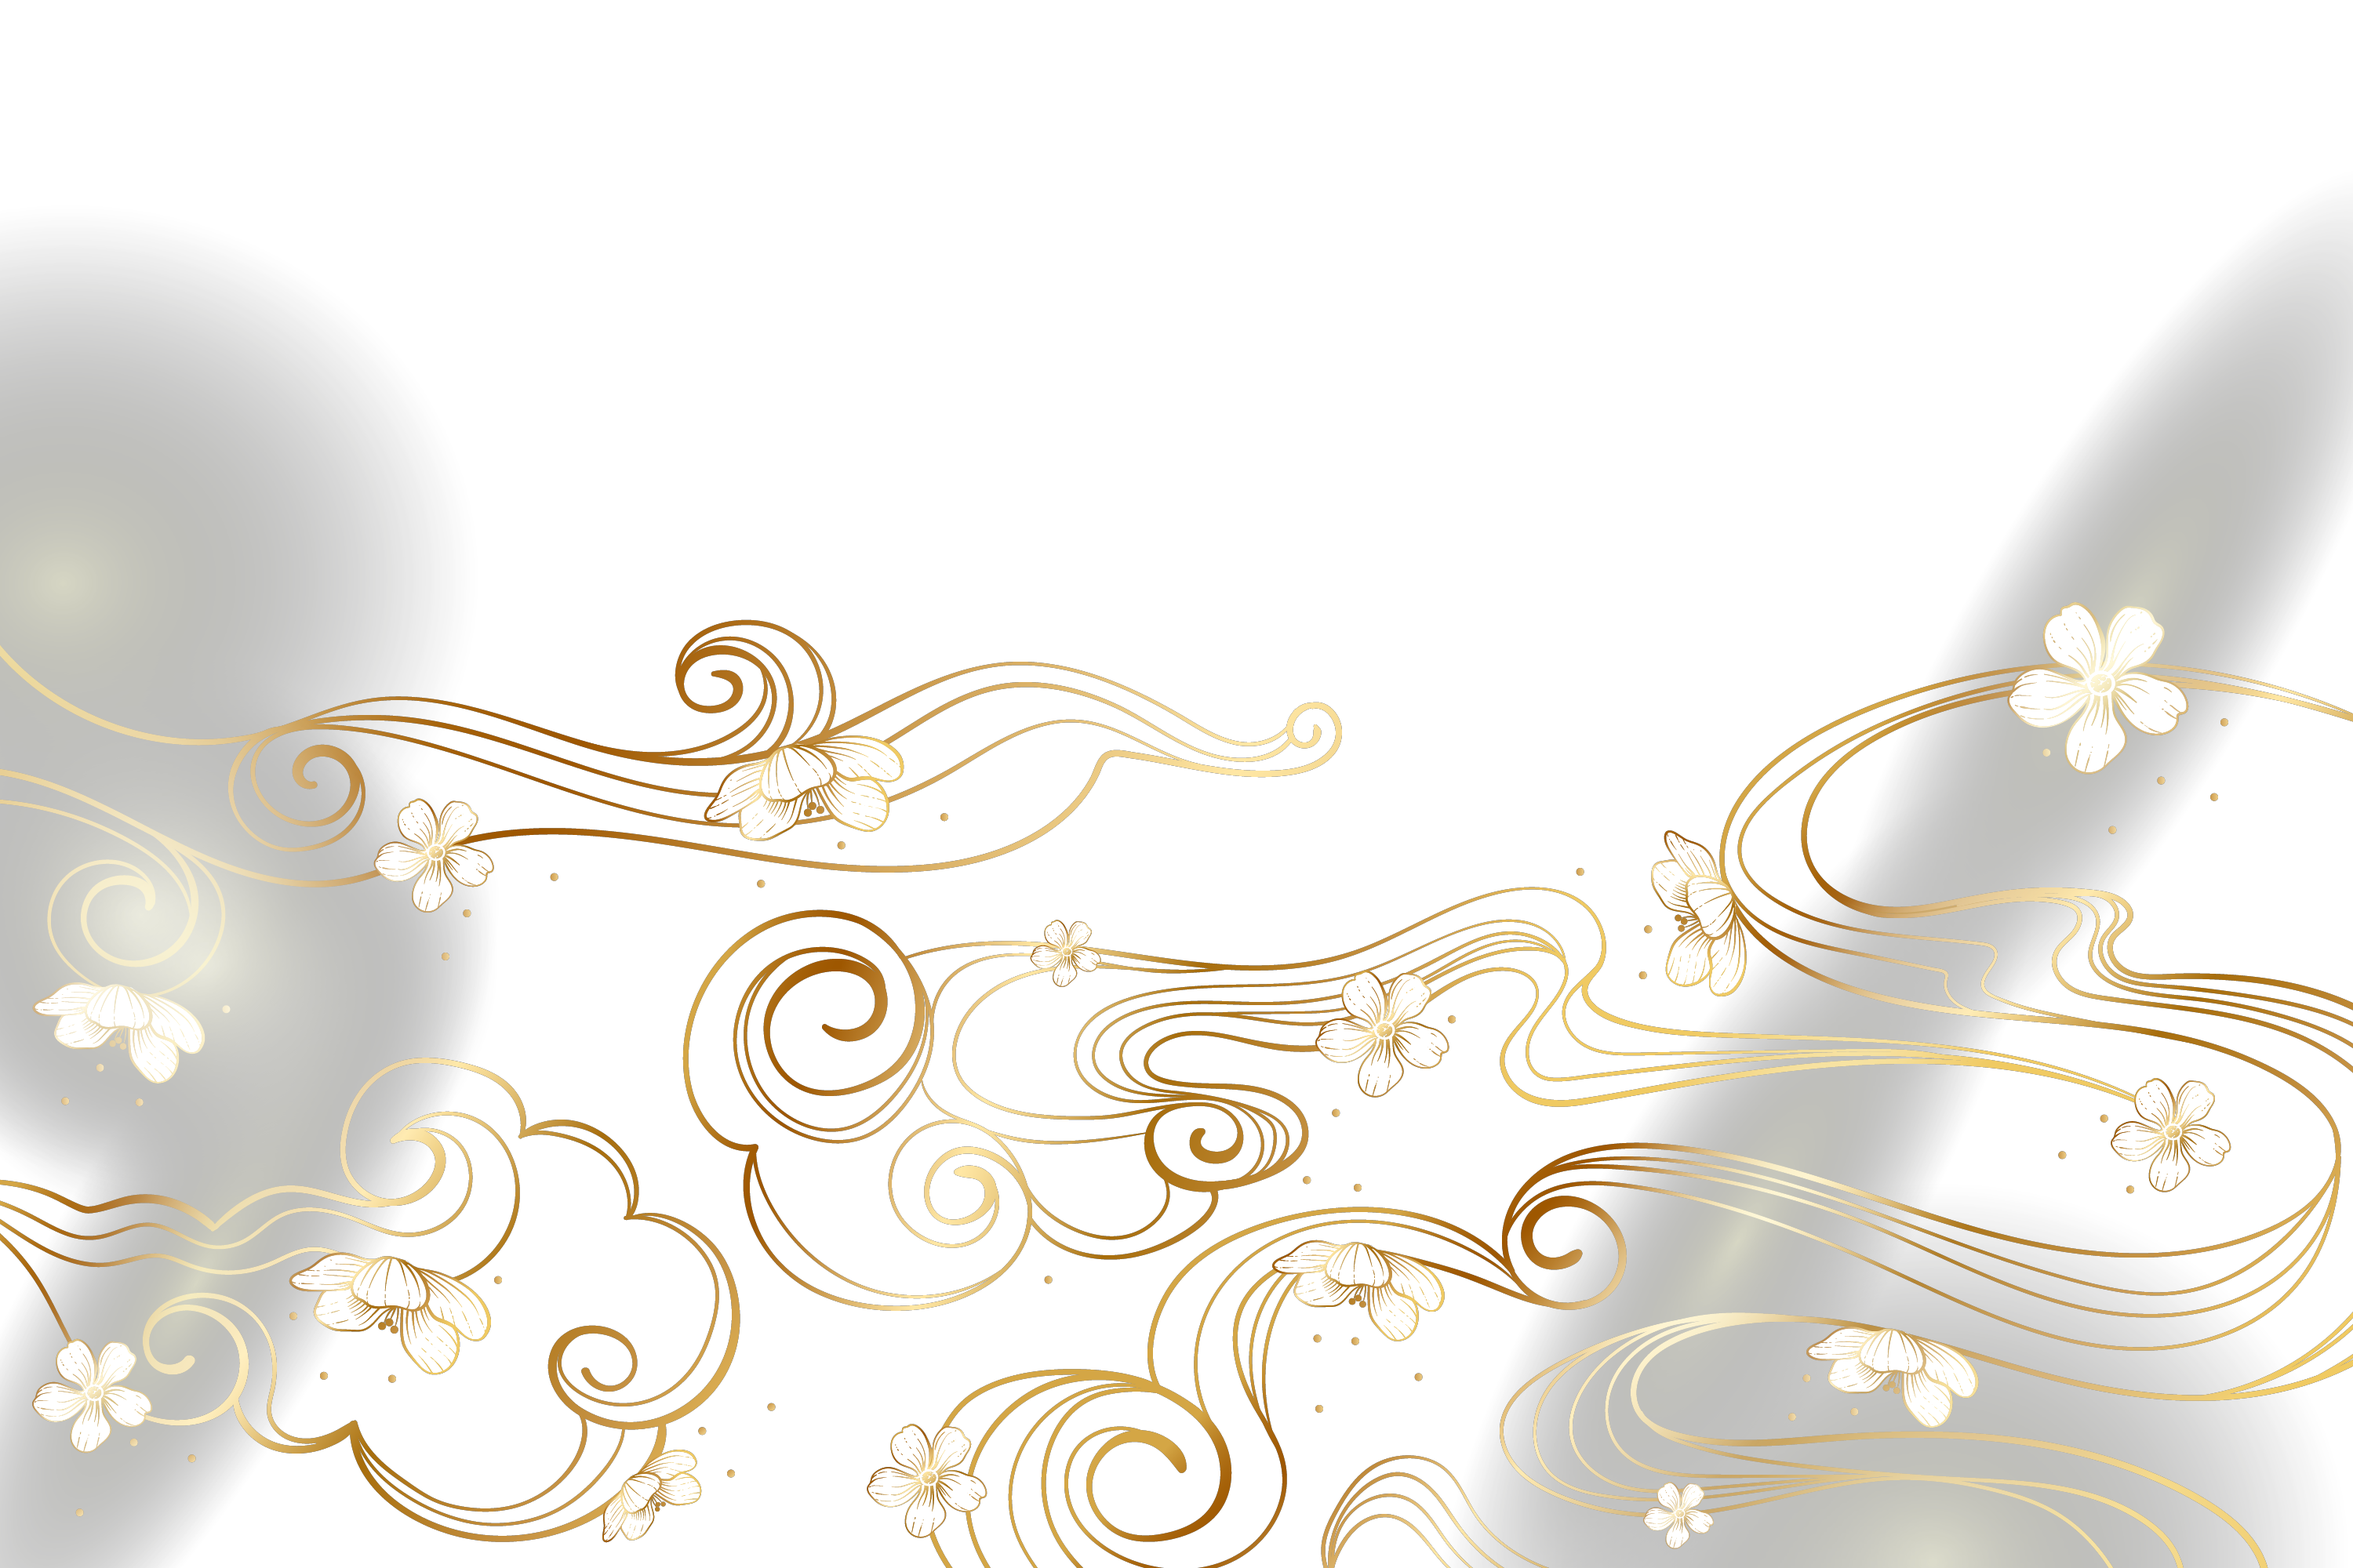
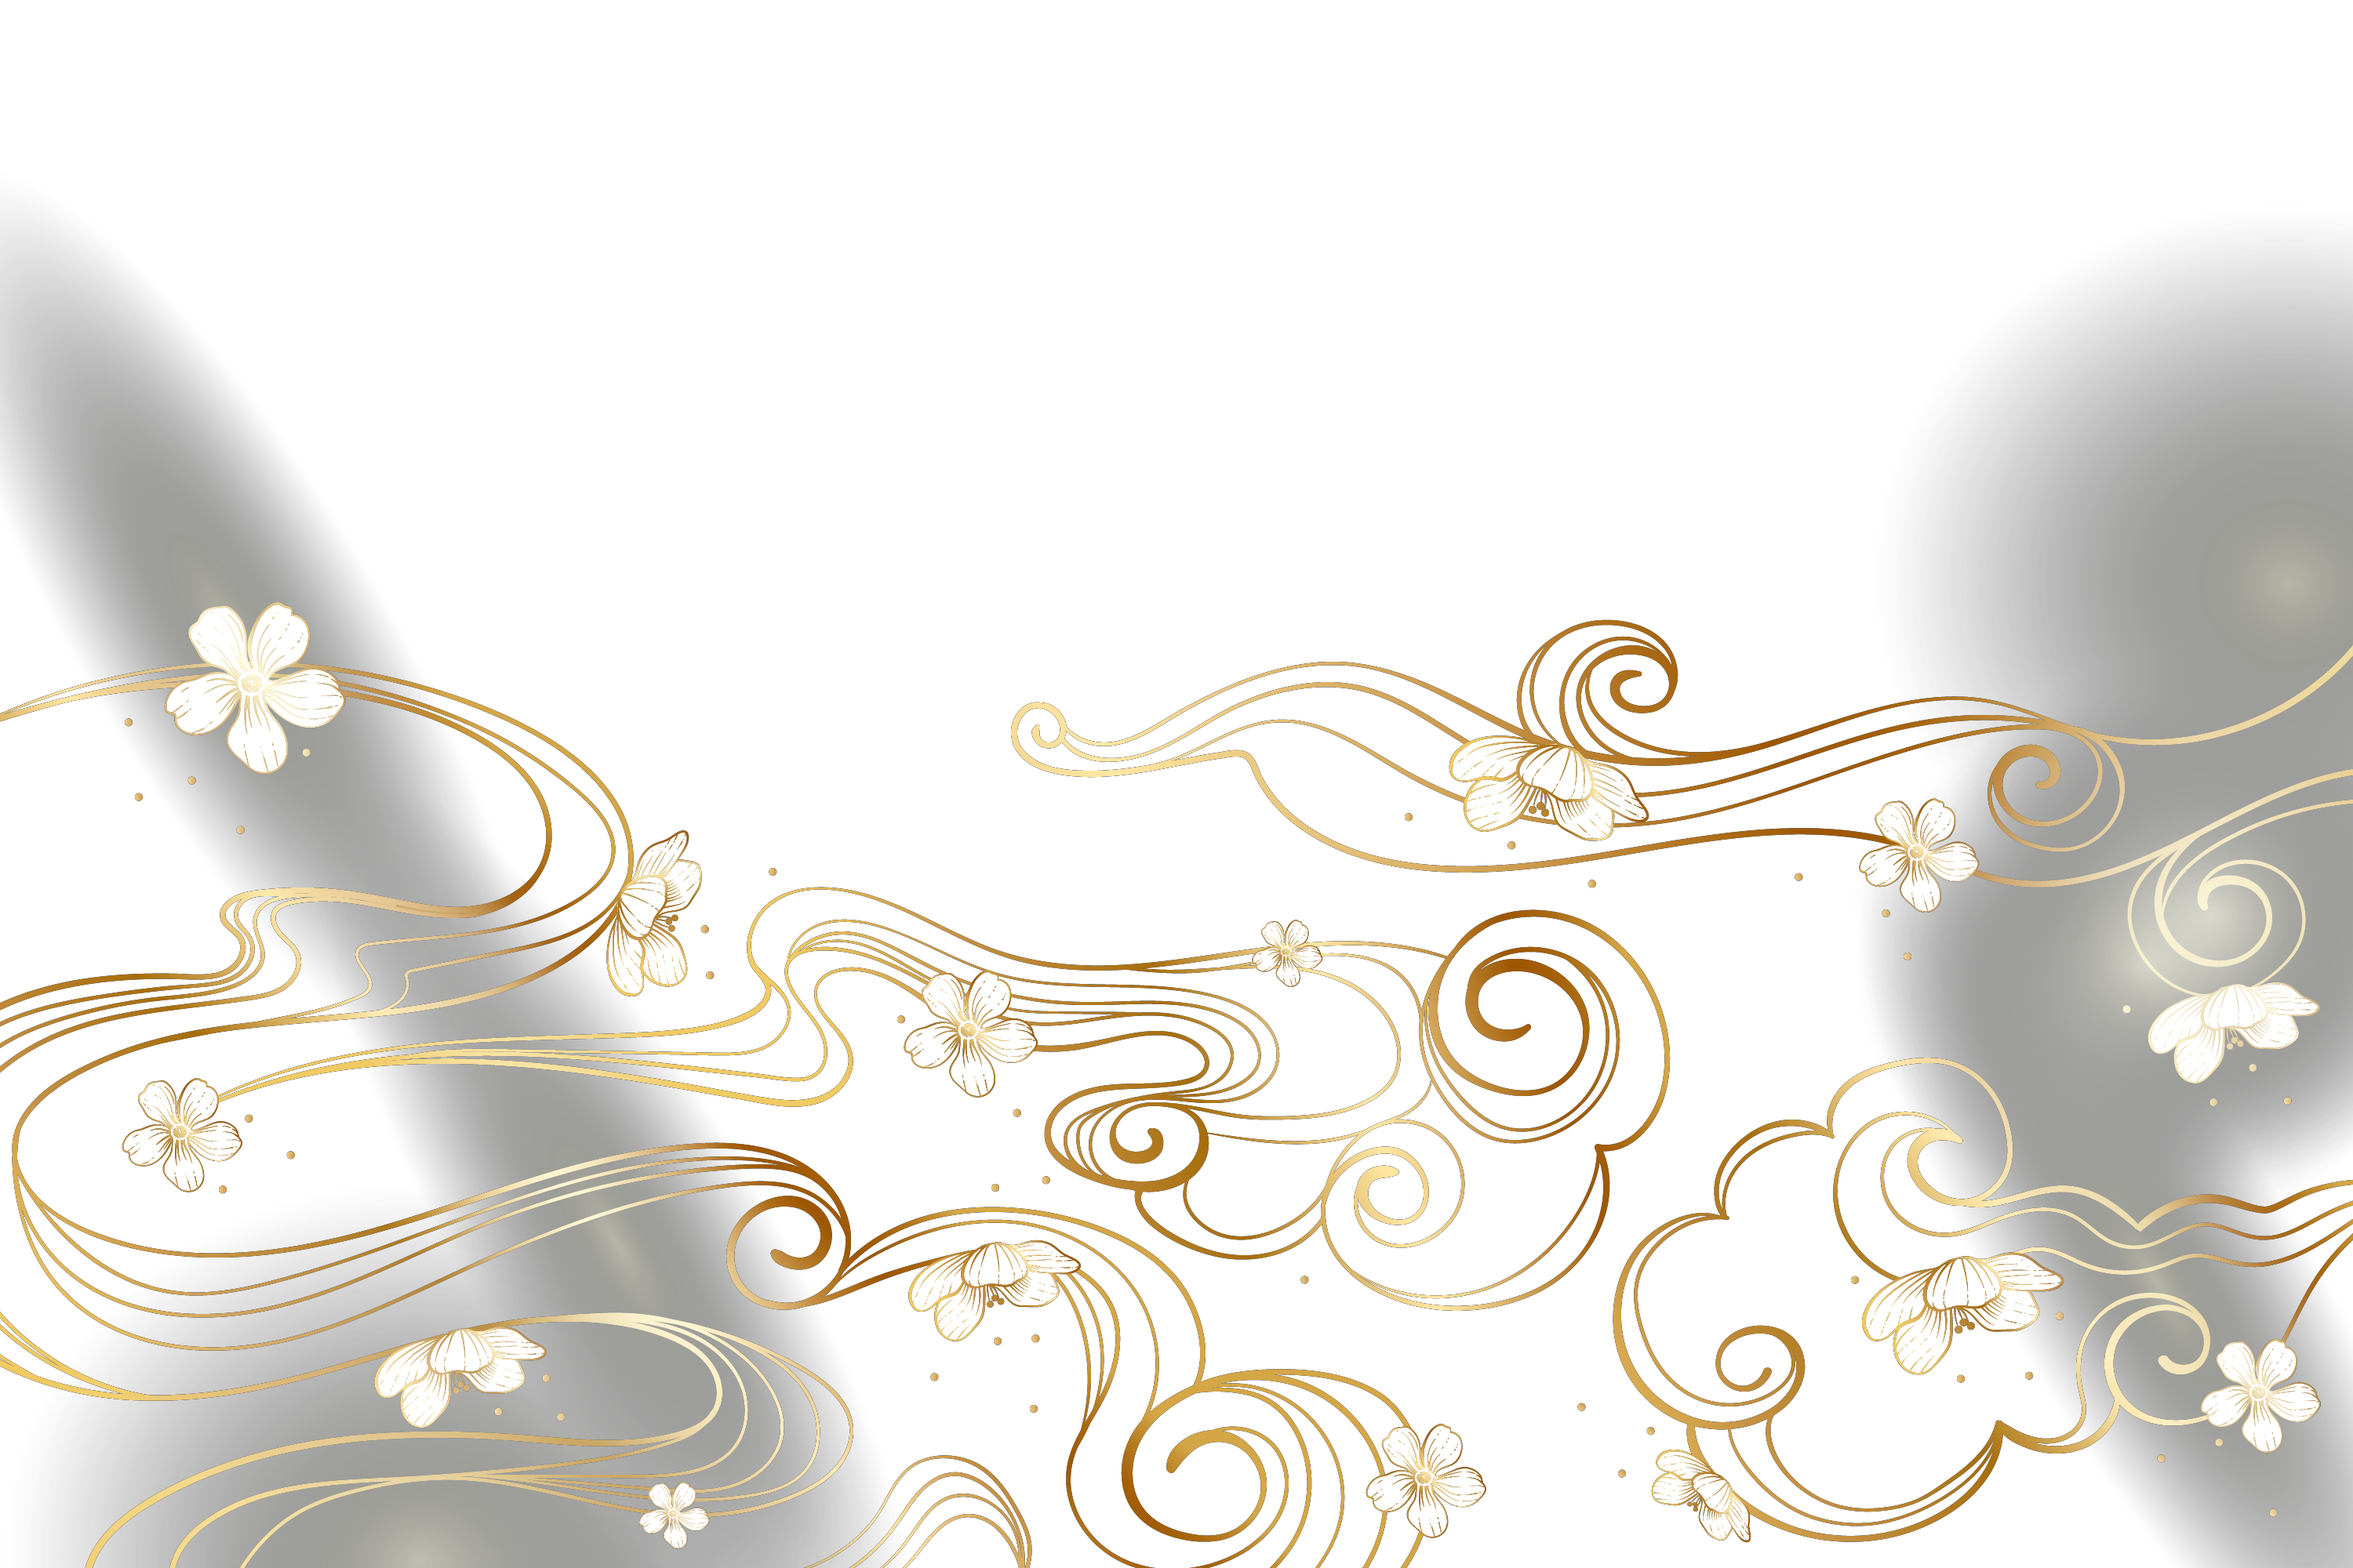
style(ui): refine AiSection layout and CollectionPage styling
- Update AiSection navigation to support infinite looping
- Adjust CSS positioning and transforms for AiSection and CollectionPage components
- Update decorative assets and patterns for better visual alignment

diff --git a/frontend/src/components/AiSection/AiSection.tsx b/frontend/src/components/AiSection/AiSection.tsx
@@ -50,15 +50,13 @@ const variants: AiVariant[] = [
 export default function AiSection() {
   const [activeIndex, setActiveIndex] = useState(0);
   const activeVariant = variants[activeIndex];
-  const isFirstSlide = activeIndex === 0;
-  const isLastSlide = activeIndex === variants.length - 1;
 
   const selectPrevious = () => {
-    setActiveIndex((current) => (current === 0 ? current : current - 1));
+    setActiveIndex((current) => (current - 1 + variants.length) % variants.length);
   };
 
   const selectNext = () => {
-    setActiveIndex((current) => (current === variants.length - 1 ? current : current + 1));
+    setActiveIndex((current) => (current + 1) % variants.length);
   };
 
   return (
@@ -116,7 +114,6 @@ export default function AiSection() {
             className={styles.navButton}
             onClick={selectPrevious}
             aria-label="Mẫu trước"
-            disabled={isFirstSlide}
           >
           </button>
           <img className={styles.slideDots} src="/assets/polygon.png" alt="" aria-hidden="true" />
@@ -125,7 +122,6 @@ export default function AiSection() {
             className={`${styles.navButton} ${styles.nextButton}`}
             onClick={selectNext}
             aria-label="Mẫu tiếp theo"
-            disabled={isLastSlide}
           >
           </button>
         </div>

diff --git a/frontend/src/components/AiSection/AiSection.module.css b/frontend/src/components/AiSection/AiSection.module.css
@@ -88,11 +88,11 @@
 
 .fanHover {
   left: 33.96%;
-  top: 66%;
+  top: 68%;
   width: 111.36%;
   height: 119.67%;
   opacity: 0;
-  transform: translate3d(0, 0, 0) rotate(-156.07deg);
+  transform: translate3d(0, 0, 0) rotate(-150.07deg);
   transform-origin: center center;
   transition: opacity 220ms ease-out;
 }
@@ -110,7 +110,7 @@
 .cardCluster {
   position: absolute;
   z-index: 7;
-  left: 45px;
+  left: 4.8%;
   top: 64px;
   width: 700px;
   height: 420px;
@@ -178,8 +178,8 @@
 
 .plus {
   position: absolute;
-  left: 362px;
-  top: 118px;
+  left: 48%;
+  top: 30%;
   color: #ffffff;
   font-size: 64px;
   line-height: 1;

diff --git a/frontend/src/pages/CollectionPage/CollectionPage.module.css b/frontend/src/pages/CollectionPage/CollectionPage.module.css
@@ -51,9 +51,9 @@
 
 .patternDecor {
   position: absolute;
-  bottom: -12%;
-  left:-8.28%;
-  width: 47.86%;
+  bottom: -11%;
+  left:-10%;
+  width: 55%;
   aspect-ratio: 737 / 194;
   pointer-events: none;
   z-index: 3;
@@ -64,7 +64,6 @@
   height: 100%;
   object-fit: contain;
   opacity: 0.5;
-  transform: scaleY(-1) rotate(180deg);
 }
 
 .storyTitle {

diff --git a/frontend/src/pages/CollectionPage/EraSection.module.css b/frontend/src/pages/CollectionPage/EraSection.module.css
@@ -162,9 +162,10 @@
 }
 
 .bst2 .cloudTop {
-  left: -6.1%;
-  top: -15%;
+  left: -10%;
+  top: -19.8%;
   opacity: 0.5;
+  width: 55%;
 }
 
 .bst2 .cloudBottom {
